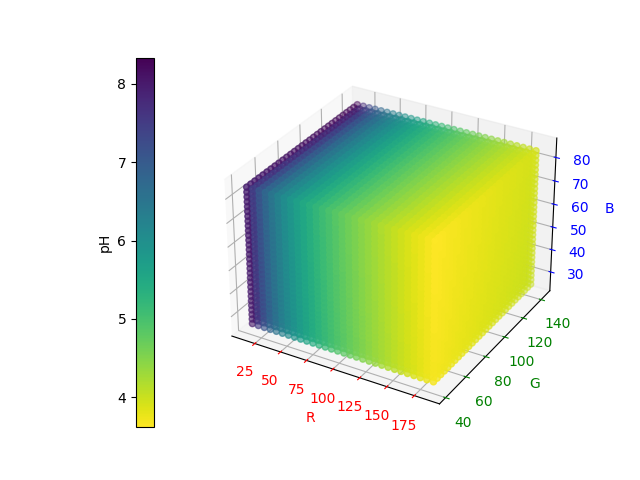
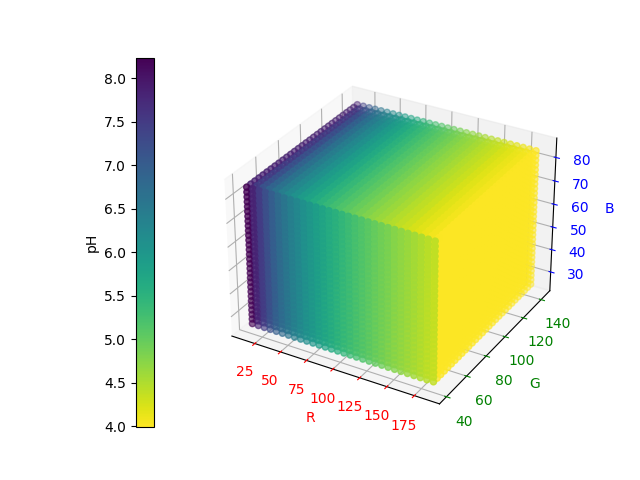
ph8

diff --git a/calibration_curve.py b/calibration_curve.py
@@ -92,10 +92,10 @@ def comparison(images):
   """Display the result of comparison and the RGB value of each one."""
   # Remove background
   processed_images = []
-  for i in range(0, 3):
+  for i in range(0, 4):
     processed_images.append([remove_background(j, preprocess(j)) for j in images[i]])
   # Show RGB values
-  pHs = [4, 5, 7]
+  pHs = [4, 5, 7, 8]
   rgb = []
   sd = []
   for i in processed_images:
@@ -129,6 +129,7 @@ def main():
   for i in range(4, 6):
     images.append(load_images('calibration curve//' + str(i)))
   images.append(load_images('calibration curve//' + str(7)))
+  images.append(load_images('calibration curve//' + str(8)))
   comparison(images)
 
 
